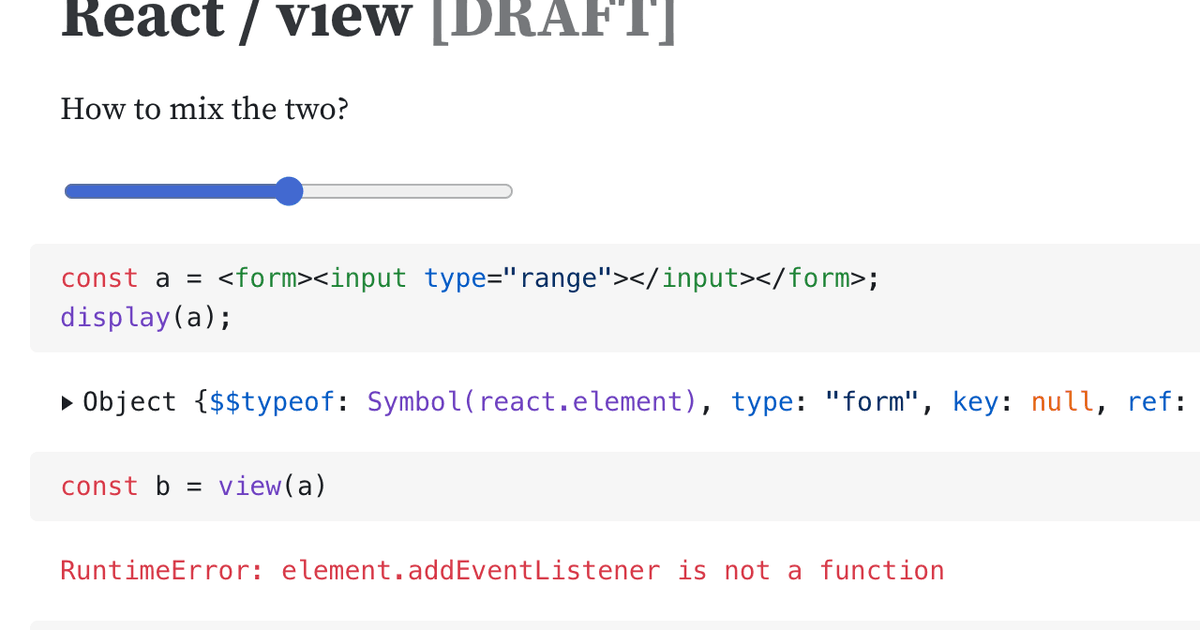
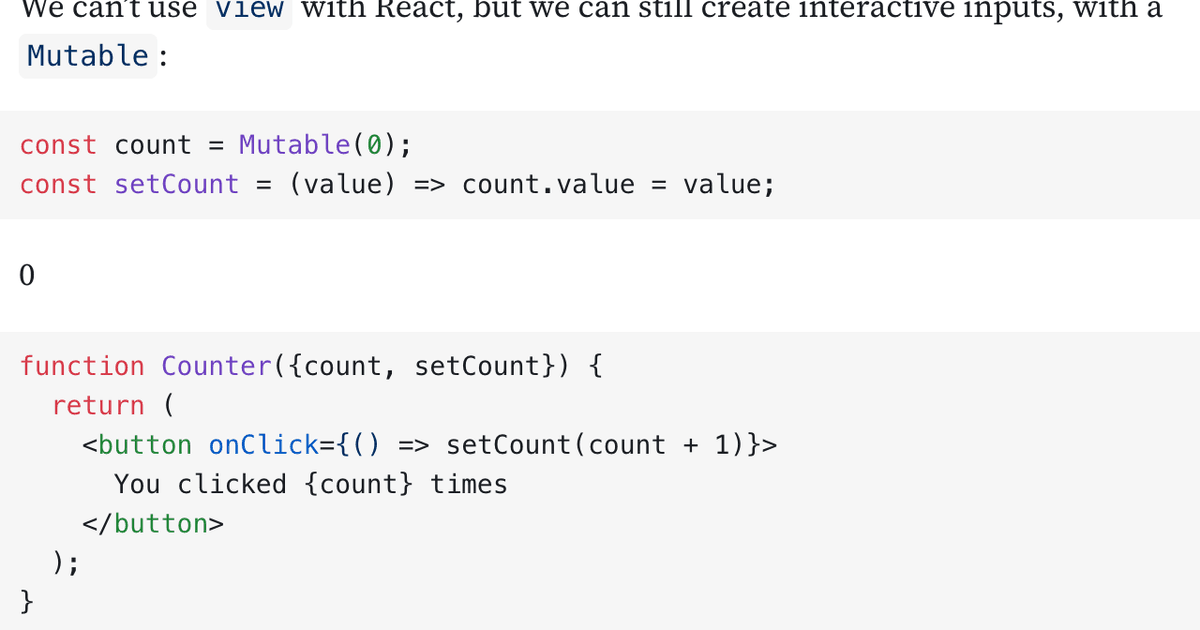
react/view

diff --git a/src/party/react-view.md b/src/party/react-view.md
@@ -1,0 +1,30 @@
+---
+index: true
+source: https://github.com/observablehq/framework/issues/1503
+---
+
+# react / view
+
+We can’t use `view` with React, but we can still create interactive inputs, with a `Mutable`:
+
+```js echo
+const count = Mutable(0);
+const setCount = (value) => count.value = value;
+```
+
+${count}
+
+```jsx echo
+function Counter({count, setCount}) {
+  return (
+    <button onClick={() => setCount(count + 1)}>
+      You clicked {count} times
+    </button>
+  );
+}
+```
+
+```jsx echo
+display(<Counter count={count} setCount={setCount} />);
+```
+
